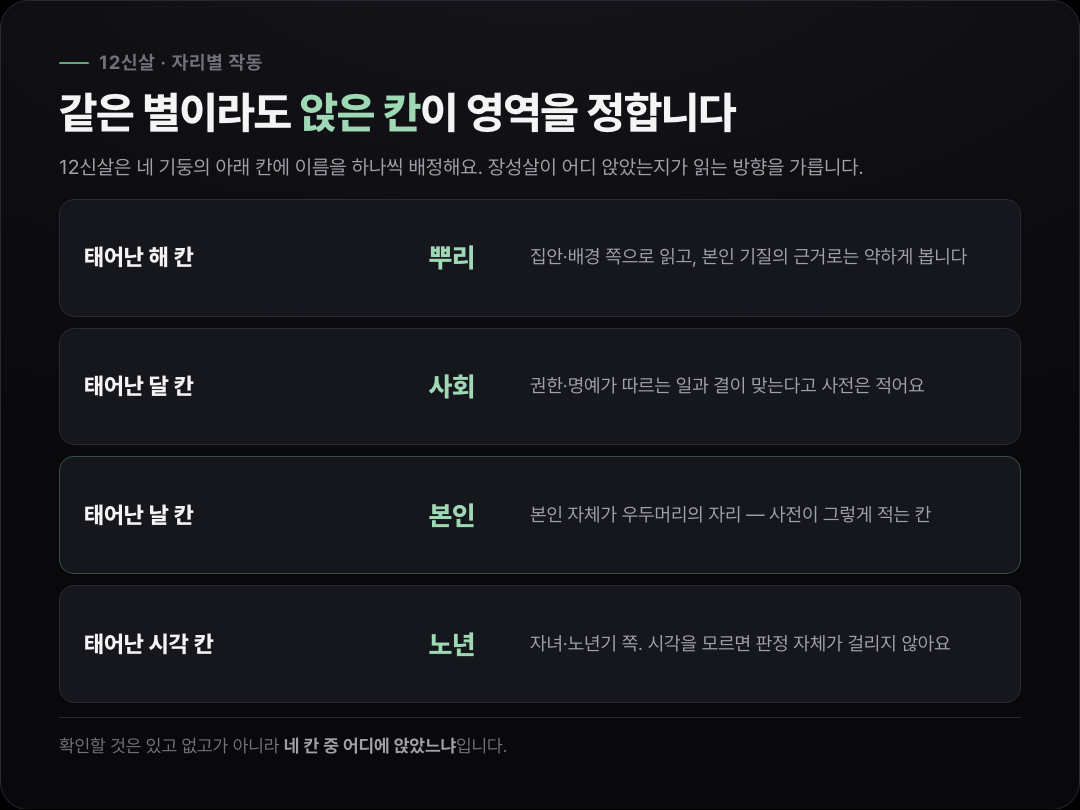
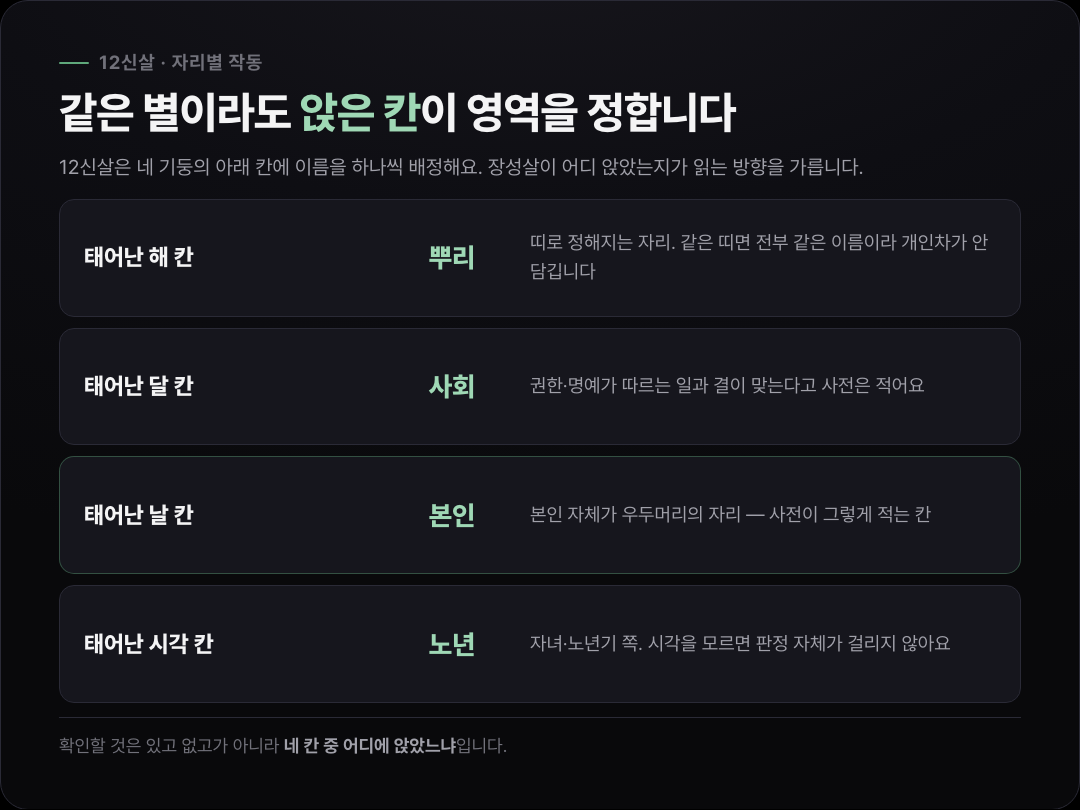
fix(stories): 발행 전 검증 — 사전 귀속 조작 4건·형제 클론 1건·내부 모순 1건
운영자 지시로 5편을 검증했다. **자기검증이라는 한계는 있다**(작성자가 §7의 독립
critic이 될 수 없다). 그래서 판단이 아니라 **대조로 확인 가능한 것**을 최대한 기계로
깔았다 — 글에서 "사전은 ~라고 적는다" 꼴의 귀속 문장 22개를 뽑아 dict 원문과 1:1
대조했다. 그 결과가 아래다.

[상] 창작 + 귀속 조작 2건
- 육해살: "힘이 다 풀리기 직전, 가장 늘어지는 구간에 놓인 칸이라고 사전은 위치로
  설명해요" — 사전은 "묘지 직전 자리"라는 위치만 적는다. 해석은 전부 내 창작인데
  사전 귀속 어미를 달았다. 위치 사실만 남기고, 뒤이어 그 위에 세웠던 논증도
  "둘은 따로 적힌 것이고 나란히 놓으면 결이 비슷해 보이는 정도"로 낮췄다.
- 장성살: "사전 기준으로 본인 기질을 직접 가리키는 자리는 아니었던 겁니다" —
  사전에 년주 장성살에 대한 서술 자체가 없다. 사전이 실제로 적는 것(일지=본인 자리)
  으로 바꿔 썼다.

[중] 귀속 부정확 2건
- 장성살: 사전은 "외교·국제 비즈니스 권위"인데 "이동이 많은 일에서의 권위"로
  일반화해 놓고 귀속 어미를 달았다. 원문대로 복원.
- 유영우: "안정과 직업, 제 몫의 녹봉을 뜻하는 자리로 사전은 적습니다" — 이건
  **사전이 아니라 엔진의 twelveStages.meaning 문자열**이다. 사전이 실제로 적는
  문장으로 교체. 신약 서술도 사전보다 강한 표현이라 "인성·비겁 보강"으로 낮췄다.

[중] 형제 클론 1건 — 기계가 8% 밑이라 통과시킨 것
- 양세종·뷔 두 글의 콜아웃이 "결과 화면에서 목록이 나뉘어 보이는 건 산출 기준을
  갈라 놓았기 때문이지 별이 늘어난 게 아니" 로 어절 단위까지 같았다. 도화=년살
  설명은 "이름 셋 별 둘"이 축인 뷔 글에 남기고, 양세종 쪽은 그 글의 축("매력의 별
  둘이 다른 기준으로 뽑혀 다른 칸에 앉았다")으로 다시 썼다.

[중] 내부 모순 1건
- 장성살 글이 FAQ에서 "한 칸에는 12신살 이름이 하나만 배정된다"고 해놓고 본문은
  "장성살이 화개살과 겹치면"이라고 썼다. 같은 칸으로 읽힌다. "한 원국 안에 함께
  들면"으로 고치고 서로 다른 칸이라는 걸 명시했다.

같이: '어렵습니다'(M-CEL-03 금지 어미)가 수정 과정에서 새로 들어갔다가 검증기에
잡혀 제거. **수정한 문장이 든 figure 카드 3장도 같이 열어 동반 수정**했다.

검증: verify-story 5편 전부 실패 0. tsc 통과, next build 586p.
★여전히 남은 것 = 별도 세션의 독립 critic. 위 6건은 전부 대조로 잡은 것이고,
판단 영역(각도 선택이 옳은가·풍성함)은 작성자가 스스로 볼 수 없다.

Claude-Session: https://claude.ai/code/session_01Shjtfq4NG9ECa2LqmT2BBs

Changed region(s): [[0.4889, 0.2778, 0.9167, 0.3395]]

diff --git a/lib/stories/data/jangseong-sal.ts b/lib/stories/data/jangseong-sal.ts
@@ -110,7 +110,7 @@ export const jangseongSal: Story = {
           kind: "table",
           headers: ["칸", "장성살이 여기 앉으면"],
           rows: [
-            ["태어난 해", "띠로 정해지는 자리. 집안·뿌리 쪽 배경으로 읽고, 본인 기질의 근거로는 약하게 봅니다"],
+            ["태어난 해", "띠로 정해지는 자리. 같은 띠면 전부 같은 이름이 붙어 개인차가 안 담깁니다"],
             ["태어난 달", "사회적 권한·명예가 따르는 일과 결이 맞는다고 사전은 적어요"],
             ["태어난 날", "본인 자체가 주도하는 자리. 사전이 '본인 자체가 우두머리의 자리'라고 적는 칸입니다"],
             ["태어난 시각", "자녀·노년기 쪽 영역. 시각을 모르면 이 칸은 아예 비어 판정이 걸리지 않아요"],
@@ -119,7 +119,7 @@ export const jangseongSal: Story = {
         },
         {
           kind: "p",
-          text: "앞의 마흔둘 되신 분은 태어난 해 칸 하나만 장성살이었어요. 사전 기준으로 본인 기질을 직접 가리키는 자리는 아니었던 겁니다. 팀장을 안 맡아 오신 것과 별이 어긋난 게 아니라, 애초에 그 별이 앉은 자리가 그 얘기를 하는 칸이 아니었어요.",
+          text: "앞의 마흔둘 되신 분은 태어난 해 칸 하나만 장성살이었어요. 사전이 본인 자리로 지목하는 칸은 태어난 날 쪽이고, 그분에게 장성살이 앉은 자리는 거기가 아니었습니다. 팀장을 안 맡아 오신 것과 별이 어긋난 게 아니라, 그 별이 앉은 칸이 애초에 기질을 말하는 자리가 아니었던 거예요.",
         },
         {
           kind: "image",
@@ -147,7 +147,7 @@ export const jangseongSal: Story = {
         {
           kind: "callout",
           tone: "tip",
-          text: "장성살이 화개살과 겹치면 학문·정신 쪽 권위로, 역마살과 겹치면 이동이 많은 일에서의 권위로 발현된다고 사전은 적어요. 별 하나만 떼어 놓고 보면 잘 안 잡히는 대목입니다.",
+          text: "한 원국 안에 장성살과 화개살이 함께 들면 학문적·정신적 권위로, 장성살과 역마살이 함께 들면 외교·국제 비즈니스 쪽 권위로 발현된다고 사전은 적어요. 한 칸에는 12신살 이름이 하나만 붙으니 이건 서로 다른 칸에 나눠 앉은 경우를 말합니다.",
         },
       ],
     },

diff --git a/lib/stories/data/yangsejong.ts b/lib/stories/data/yangsejong.ts
@@ -77,16 +77,16 @@ export const yangSejong: Story = {
         },
         {
           kind: "p",
-          text: "그런데 여기서 이름이 하나 더 붙어요. 태어난 날 칸의 유(酉)는 12신살 쪽 목록에서는 **년살**로 불립니다. 사전은 12신살의 년살이 곧 일반 신살의 도화살과 같은 별이라고 적어요. 같은 자리를 두 체계가 각자의 이름으로 부르는 겁니다.",
+          text: "여기서 짚어 둘 게 하나 있어요. 태어난 날 칸의 유(酉)는 12신살 목록에서는 **년살**이라는 다른 이름을 받습니다. 사전은 이 둘을 같은 별로 적어요. 목록이 둘이라 이름도 둘일 뿐입니다.",
         },
         {
           kind: "callout",
           tone: "warn",
-          text: "그래서 이 칸을 두고 별이 두 개 있다고 세면 부풀려집니다. 도화살과 년살은 하나예요. 결과 화면에서 두 목록이 나뉘어 보이는 건 산출 기준을 갈라 놓았기 때문이지 별이 늘어난 게 아닙니다.",
+          text: "그러니 이 원국에서 매력을 보는 별은 셋이 아니라 둘입니다. 그리고 그 둘이 앉은 칸이 서로 달라요 — 하나는 본인 자리, 하나는 뿌리 쪽입니다. 뽑는 기준이 다르면 붙는 자리도 갈린다는 게 여기서 그대로 보입니다.",
         },
         {
           kind: "p",
-          text: "매력의 별이 **본인 자리와 뿌리 쪽에 하나씩** 걸린 배치라는 것도 짚어 둘 만해요. 태어난 달 칸 쪽은 다른 이름을 받습니다. 그쪽은 [장성살](/dict/sipisinsal/jangseongsal), 그러니까 통솔과 중심의 별이에요.",
+          text: "남은 한 칸, 태어난 달 쪽은 [장성살](/dict/sipisinsal/jangseongsal)입니다. 통솔과 중심의 별이에요. 세 칸이 끌림·끌림·통솔로 갈린 셈입니다.",
         },
         {
           kind: "image",

diff --git a/lib/stories/data/yukhae-sal.ts b/lib/stories/data/yukhae-sal.ts
@@ -79,11 +79,11 @@ export const yukhaeSal: Story = {
         },
         {
           kind: "p",
-          text: "배정표가 넷이라는 건 이름이 임의로 붙는다는 뜻이 아니라, **그 별이 나와 어떤 거리에 있는지를 재는 방식**이라는 뜻이에요. 육해살은 내 묶음이 갈무리되는 마지막 글자 바로 직전 자리입니다. 힘이 다 풀리기 직전, 가장 늘어지는 구간에 놓인 칸이라고 사전은 위치로 설명해요.",
+          text: "배정표가 넷이라는 건 이름이 임의로 붙는다는 뜻이 아니라, **그 별이 나와 어떤 거리에 있는지를 재는 방식**이라는 뜻이에요. 사전이 적어 둔 육해살의 자리는 **내 묶음이 갈무리되는 마지막 글자 바로 직전**입니다. 묶음이 닫히기 한 칸 앞이라는 뜻이에요.",
         },
         {
           kind: "p",
-          text: "만성적인 피로, 오래 끄는 마찰, 가까운 사이에서 조금씩 새는 감정. 사전이 이 별에 붙인 영역이 하나같이 **급하게 터지는 일이 아니라 길게 끄는 일**인 것과 이 위치가 겹칩니다.",
+          text: "만성적인 피로, 시기와 방해, 가까운 사람과의 갈등. 사전이 이 별에 붙인 영역을 늘어놓고 보면 **급하게 터지는 일보다 길게 끄는 일** 쪽에 몰려 있어요. 다만 그게 자리 순번에서 나온 성질이라고 사전이 적은 건 아닙니다. 둘은 따로 적혀 있는 것이고, 나란히 놓으면 결이 비슷해 보인다는 정도로 읽으시는 게 정확해요.",
         },
         {
           kind: "callout",

diff --git a/lib/stories/data/yuyoungwoo.ts b/lib/stories/data/yuyoungwoo.ts
@@ -81,7 +81,7 @@ export const yuYoungwoo: Story = {
         },
         {
           kind: "p",
-          text: "건록은 자기 힘으로 자리를 얻는 단계예요. 안정과 직업, 제 몫의 녹봉을 뜻하는 자리로 사전은 적습니다. 그리고 이 원국의 강약 판정에서 네 항목 중 확보된 것이 바로 이 태어난 달 하나예요.",
+          text: "건록은 자기 힘으로 자리를 얻는 단계예요. 사전은 이 단계를 열두 칸 가운데 가장 안정적인 강세로 적고, 태어난 달 칸에 들면 직업적 자립과 성취가 자연스럽게 따른다고 봅니다. 그리고 이 원국의 강약 판정에서 네 항목 중 확보된 것이 바로 이 태어난 달 하나예요.",
         },
         {
           kind: "p",
@@ -122,7 +122,7 @@ export const yuYoungwoo: Story = {
         {
           kind: "callout",
           tone: "tip",
-          text: "신약이라는 말을 힘이 모자란다는 뜻으로 받으실 필요는 없어요. 본인 몫으로 잡아 둔 자리가 작다는 쪽에 가깝고, 사전은 이 상태를 받쳐 줄 글자를 어디서 끌어오느냐가 관건인 국면으로 적습니다.",
+          text: "신약이라는 말을 힘이 모자란다는 뜻으로 받으실 필요는 없어요. 본인 몫으로 잡아 둔 자리가 작다는 쪽에 가깝습니다. 사전은 신약의 보강 방향을 인성과 비겁 쪽으로 적어요.",
         },
       ],
     },
